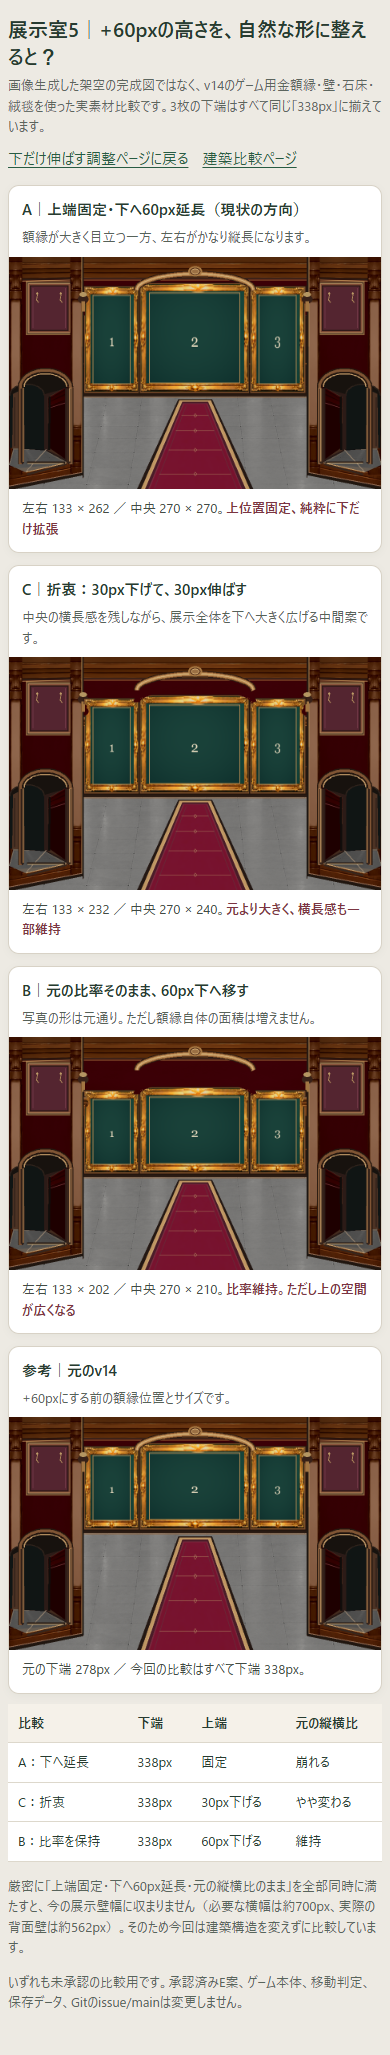
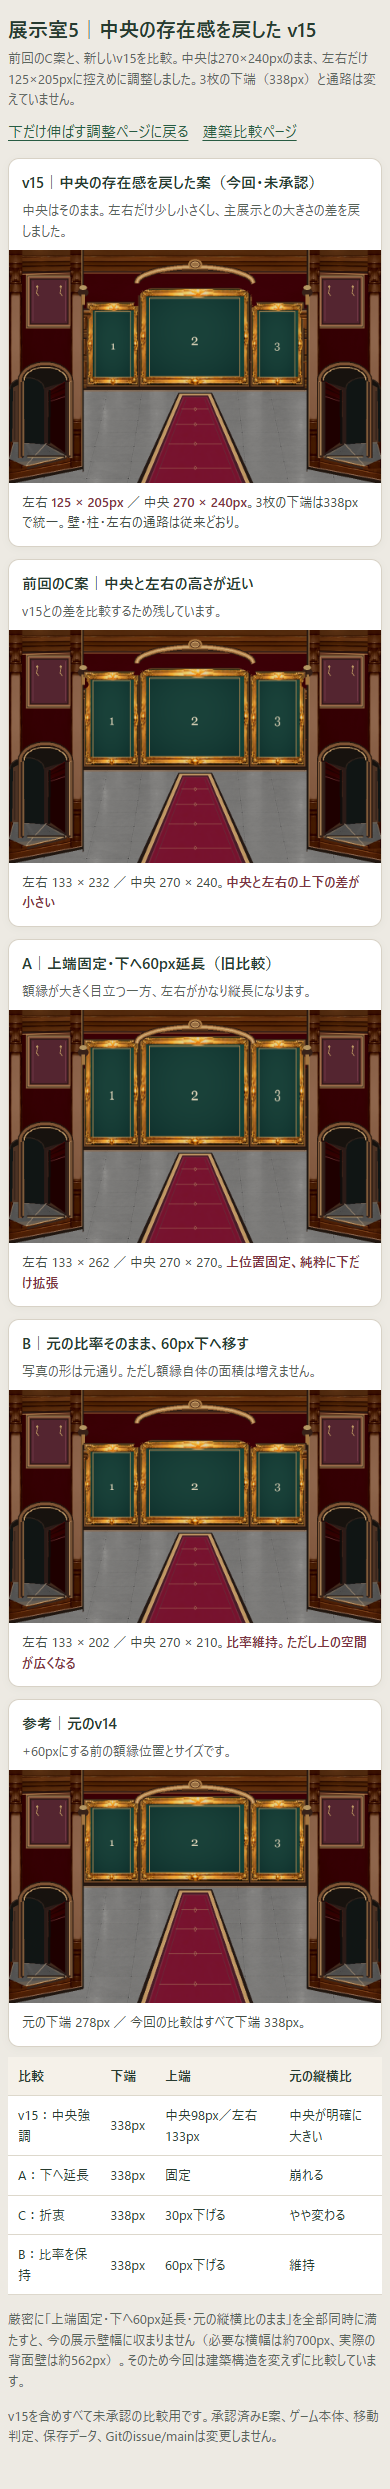
art(a18): restore central gallery5 prominence in v15 preview

diff --git a/architecture-review/entrance-gallery5-comparison/frame-balance/index.html b/architecture-review/entrance-gallery5-comparison/frame-balance/index.html
@@ -1,6 +1,6 @@
 <!doctype html>
 <html lang="ja"><head><meta charset="utf-8"><meta name="viewport" content="width=device-width,initial-scale=1">
-<title>展示室5｜+60px額縁の形・比較</title>
+<title>展示室5｜中央の存在感を戻す v15 比較</title>
 <style>
 :root{color-scheme:light}
 *{box-sizing:border-box}body{margin:0;background:#edeae3;color:#273b30;font:15px/1.58 system-ui,-apple-system,"Hiragino Kaku Gothic ProN","Yu Gothic",sans-serif}
@@ -25,8 +25,8 @@ th{background:#f5f1e9}
 </style></head>
 <body><main>
 <header>
-<h1>展示室5｜+60pxの高さを、自然な形に整えると？</h1>
-<p class="sub">画像生成した架空の完成図ではなく、v14のゲーム用金額縁・壁・石床・絨毯を使った実素材比較です。3枚の下端はすべて同じ「338px」に揃えています。</p>
+<h1>展示室5｜中央の存在感を戻した v15</h1>
+<p class="sub">前回のC案と、新しいv15を比較。中央は270×240pxのまま、左右だけ125×205pxに控えめに調整しました。3枚の下端（338px）と通路は変えていません。</p>
 <div class="links">
 <a href="../frame-adjuster/">下だけ伸ばす調整ページに戻る</a>
 <a href="../">建築比較ページ</a>
@@ -34,16 +34,22 @@ th{background:#f5f1e9}
 </header>
 <div class="grid">
 <article class="card">
-<h2>A｜上端固定・下へ60px延長（現状の方向）</h2>
+<h2>v15｜中央の存在感を戻した案（今回・未承認）</h2>
+<p class="small">中央はそのまま。左右だけ少し小さくし、主展示との大きさの差を戻しました。</p>
+<a class="image" href="d_central_emphasis_v15.png"><img src="d_central_emphasis_v15.png?v=15" alt="v15案：中央の額縁はそのまま、左右の額縁を少し小さくして主役が明確になった展示室5" width="930" height="582"></a>
+<p class="detail">左右 <strong>125 × 205px</strong> ／ 中央 <strong>270 × 240px</strong>。3枚の下端は338pxで統一。壁・柱・左右の通路は従来どおり。</p>
+</article>
+<article class="card">
+<h2>前回のC案｜中央と左右の高さが近い</h2>
+<p class="small">v15との差を比較するため残しています。</p>
+<a class="image" href="c_compromise.png"><img src="c_compromise.png" alt="前回のC案" width="930" height="582"></a>
+<p class="detail">左右 133 × 232 ／ 中央 270 × 240。<strong>中央と左右の上下の差が小さい</strong></p>
+</article>
+<article class="card">
+<h2>A｜上端固定・下へ60px延長（旧比較）</h2>
 <p class="small">額縁が大きく目立つ一方、左右がかなり縦長になります。</p>
 <a class="image" href="a_full_extension.png"><img src="a_full_extension.png" alt="A案：上端を変えずに60px延長した実素材比較" width="930" height="582"></a>
 <p class="detail">左右 133 × 262 ／ 中央 270 × 270。<strong>上位置固定、純粋に下だけ拡張</strong></p>
-</article>
-<article class="card">
-<h2>C｜折衷：30px下げて、30px伸ばす</h2>
-<p class="small">中央の横長感を残しながら、展示全体を下へ大きく広げる中間案です。</p>
-<a class="image" href="c_compromise.png"><img src="c_compromise.png" alt="C案：上端を30px下げ、額縁を30px伸ばした実素材比較" width="930" height="582"></a>
-<p class="detail">左右 133 × 232 ／ 中央 270 × 240。<strong>元より大きく、横長感も一部維持</strong></p>
 </article>
 <article class="card">
 <h2>B｜元の比率そのまま、60px下へ移す</h2>
@@ -58,12 +64,12 @@ th{background:#f5f1e9}
 <p class="detail">元の下端 278px ／ 今回の比較はすべて下端 338px。</p>
 </article>
 </div>
-<table aria-label="3案の比較">
+<table aria-label="新旧案の比較">
 <thead><tr><th>比較</th><th>下端</th><th>上端</th><th>元の縦横比</th></tr></thead>
-<tbody><tr><td>A：下へ延長</td><td>338px</td><td>固定</td><td>崩れる</td></tr>
+<tbody><tr><td>v15：中央強調</td><td>338px</td><td>中央98px／左右133px</td><td>中央が明確に大きい</td></tr><tr><td>A：下へ延長</td><td>338px</td><td>固定</td><td>崩れる</td></tr>
 <tr><td>C：折衷</td><td>338px</td><td>30px下げる</td><td>やや変わる</td></tr>
 <tr><td>B：比率を保持</td><td>338px</td><td>60px下げる</td><td>維持</td></tr></tbody>
 </table>
 <p class="notice">厳密に「上端固定・下へ60px延長・元の縦横比のまま」を全部同時に満たすと、今の展示壁幅に収まりません（必要な横幅は約700px、実際の背面壁は約562px）。そのため今回は建築構造を変えずに比較しています。</p>
-<p class="notice">いずれも未承認の比較用です。承認済みE案、ゲーム本体、移動判定、保存データ、Gitのissue/mainは変更しません。</p>
+<p class="notice">v15を含めすべて未承認の比較用です。承認済みE案、ゲーム本体、移動判定、保存データ、Gitのissue/mainは変更しません。</p>
 </main></body></html>

diff --git a/architecture-review/entrance-gallery5-comparison/index.html b/architecture-review/entrance-gallery5-comparison/index.html
@@ -1,6 +1,6 @@
 <!doctype html>
 <html lang="ja"><head><meta charset="utf-8"><meta name="viewport" content="width=device-width,initial-scale=1">
-<title>A18 展示室5 建築材質比較｜E案 vs v14</title>
+<title>A18 展示室5 建築材質比較｜E案 vs v15</title>
 <style>
 :root{color-scheme:light}*{box-sizing:border-box}body{margin:0;background:#eae8e1;color:#23372f;font:15px/1.6 system-ui,-apple-system,"Hiragino Kaku Gothic ProN","Yu Gothic",sans-serif}
 main{max-width:1450px;margin:auto;padding:12px clamp(10px,2.5vw,30px) 55px}h1{font-size:clamp(20px,3.5vw,29px);margin:.2em 0}.note{margin:0 0 16px;color:#555b54}.grid{display:grid;grid-template-columns:repeat(2,minmax(0,1fr));gap:16px}
@@ -11,16 +11,16 @@ h3{margin:25px 0 8px;font-size:19px}.em{color:#7d2c35;font-weight:700}
 @media(max-width:780px){.grid{grid-template-columns:1fr;gap:11px}main{padding:12px 9px 40px}}
 </style></head><body><main>
 <h1>展示室5｜E案・材質・左右通路の実素材比較</h1>
-<p class="note">承認済みE案は変更していません。右は<span class="em">v14（未承認）</span>です。入室した時点で飾った写真が目に入りやすいよう、3枚すべての額縁をさらに拡大しました。左右の通路や柱はv13から変更していません。</p>
-<p style="margin:8px 0"><a href="frame-balance/">＋60pxの額縁バランスを3案で比較する</a></p>
+<p class="note">承認済みE案は変更していません。右は<span class="em">v15（未承認）</span>です。中央の作品は大きさを維持し、左右だけ少し小さくして主展示とのメリハリを戻しました。左右の通路や柱は変更していません。</p>
+<p style="margin:8px 0"><a href="frame-balance/"><strong>v15：中央の存在感を戻した新案と前回C案を比較する</strong></a></p>
 <p style="margin:12px 0 18px"><a href="frame-adjuster/" style="display:inline-block;border-radius:9px;background:#27513d;color:#fff;padding:11px 16px;text-decoration:none;font-weight:700">展示室5｜3枚の額縁サイズを動かして確認する</a></p>
 <div class="grid">
 <article><h2>承認済みE案（正本／不変）</h2><figure><img src="gallery5-approved-E.png?v=1" alt="展示室5承認済みE案" width="930" height="582"></figure><p>構造・3額縁・宮殿風の配色の基準。</p></article>
-<article><h2>v14｜入室時の見栄えを重視して3額縁を拡大（未承認）</h2><figure><img src="gallery5-v14.png?v=20261029-14" alt="額縁をさらに拡大した展示室5 v14" width="930" height="582"></figure><p>左右は118×162→133×202、中央は262×172→270×210（v13比）。左右・中央の下端を揃え、元のアーチ・左右通路は保持。作品の大きさが伝わりやすい画面に調整しました。</p></article>
+<article><h2>v15｜中央の存在感を戻した新案（未承認）</h2><figure><img src="gallery5-v15.png?v=20261029-15" alt="中央の額縁の存在感を高めた展示室5の実素材v15" width="930" height="582"></figure><p>中央は270×240pxのまま、左右だけ125×205pxに抑えています。3額縁の下端は338pxで揃え、左右の通路・柱・壁の材質は維持しています。</p></article>
 </div>
 <h3>額縁拡張前後・実ゲーム素材との比較</h3>
 <div class="grid">
-<article><h2>v13｜拡大前（未承認）</h2><figure><img src="gallery5-v13.png?v=20261029-13" alt="拡大前の展示室5 v13" width="930" height="582"></figure><p>前回の展示室5素材。v14は入口から視界に入る作品の存在感を増すため、横幅と高さの両方を拡大。</p></article>
+<article><h2>v14｜以前の額縁サイズ（未承認）</h2><figure><img src="gallery5-v14.png?v=20261029-14" alt="展示室5 v14" width="930" height="582"></figure><p>拡大調整前の背景。v15との高さや中央・左右のバランスを比較できます。</p></article>
 <article><h2>エントランス Lv.1｜実ゲーム画面</h2><figure><img src="entrance-lv1.png?v=1" alt="エントランスLv1" width="930" height="582"></figure><p>木材と石床の材質参考。</p></article>
 <article><h2>エントランス Lv.6｜承認済み</h2><figure><img src="entrance-lv6.png?v=1" alt="エントランスLv6" width="930" height="582"></figure><p>完成した額縁と絨毯の材質参考。</p></article>
 </div>

diff --git a/qa/build_gallery5_v15_central_emphasis.py b/qa/build_gallery5_v15_central_emphasis.py
@@ -1,0 +1,70 @@
+"""Gallery5 v15: restore visual hierarchy by slightly reducing ONLY side frames.
+Based on the previously reviewed C (+60 lower edge) variant. Central stays 270x240.
+Uses extracted real v14 frame sprites; E and gameplay remain untouched.
+"""
+from pathlib import Path
+from PIL import Image,ImageChops
+import json
+R=Path(r"C:\Users\User\source\repos\a18-gallery5-material-review")
+AS=R/"architecture-review/entrance-gallery5-comparison/frame-adjuster"
+BAL=R/"architecture-review/entrance-gallery5-comparison/frame-balance"
+R15=R/"rooms/gallery5"
+ARCH=R/"architecture-review/gallery5"
+src={n:Image.open(AS/f"frame_{n}.png").convert("RGBA") for n in ("left","center","right")}
+base=Image.open(AS/"gallery5_unframed.png").convert("RGB")
+C=Image.open(BAL/"c_compromise.png").convert("RGB")
+W,H=base.size
+assert (W,H)==(930,582)
+def backwall(extra=60):
+    output=base.copy()
+    l,r=184,746;ww=r-l
+    output.paste(base.crop((l,224,r,286)).resize((ww,extra+6),Image.Resampling.BICUBIC),(l,280))
+    output.paste(base.crop((l,292,r,582)).resize((ww,290-extra),Image.Resampling.BICUBIC),(l,292+extra))
+    output.paste(base.crop((l,286,r,292)),(l,286+extra))
+    return output
+def resize_real_frame(sprite,targetW,extraH):
+    w,h=sprite.size
+    cap_top,cap_bot=43,39
+    mid=sprite.crop((0,cap_top,w,h-cap_bot)).resize((w,h-cap_top-cap_bot+extraH),Image.Resampling.BICUBIC)
+    result=Image.new("RGBA",(w,h+extraH))
+    result.alpha_composite(sprite.crop((0,0,w,cap_top)),(0,0))
+    result.alpha_composite(mid,(0,cap_top))
+    result.alpha_composite(sprite.crop((0,h-cap_bot,w,h)),(0,h-cap_bot+extraH))
+    # Horizontal change is modest (~6%) and applies to each real frame sprite.
+    actualW=targetW+14
+    return result.resize((actualW,h+extraH),Image.Resampling.LANCZOS)
+# New +60 bottom remains 338. Side widths/heights reduce, central C untouched.
+specs={
+ "left":{"x":197,"y":133,"w":125,"h":205},
+ "center":{"x":329,"y":98,"w":270,"h":240},
+ "right":{"x":608,"y":133,"w":125,"h":205}
+}
+original={"left":(133,202),"center":(270,210),"right":(133,202)}
+out=backwall()
+for name in ("left","center","right"):
+    rect=specs[name];oldW,oldH=original[name]
+    frame=resize_real_frame(src[name],rect["w"],rect["h"]-oldH)
+    out.paste(frame,(rect["x"]-6,rect["y"]-5),frame)
+assert all(x["y"]+x["h"]==338 for x in specs.values())
+assert specs["left"]["x"]+specs["left"]["w"]<specs["center"]["x"]
+assert specs["center"]["x"]+specs["center"]["w"]<specs["right"]["x"]
+assert specs["right"]["x"]+specs["right"]["w"]<746
+# Pixel-identical at the architectural side planes.
+for box in [(0,0,184,H),(746,0,W,H)]:
+    assert ImageChops.difference(C.crop(box),out.crop(box)).getbbox() is None
+p=BAL/"d_central_emphasis_v15.png"
+out.save(p,optimize=True)
+( R/"architecture-review/entrance-gallery5-comparison/gallery5-v15.png" ).write_bytes(p.read_bytes())
+q=ARCH/"gallery5_v15_central_emphasis_REVIEW.png";out.save(q,optimize=True)
+r=R15/"gallery5_palace_E_material_v15_REVIEW.png";out.save(r,optimize=True)
+metadata={
+ "schema":"a18-gallery5-frame-balance/v15",
+ "base":"C (+60 bottom); same architecture",
+ "status":"UNAPPROVED",
+ "canvas":{"width":930,"height":582},
+ "rects":{n:{**v,"bottom":v["y"]+v["h"]} for n,v in specs.items()},
+ "sideCorridorsChanged":False,
+ "approvedEChanged":False}
+(BAL/"v15_layout.json").write_text(json.dumps(metadata,ensure_ascii=False,indent=2),encoding="utf-8")
+print("saved",p,p.stat().st_size,"C diff",ImageChops.difference(out,C).getbbox())
+print(json.dumps(specs,ensure_ascii=False))

diff --git a/qa/check_gallery5_frame_balance.py b/qa/check_gallery5_frame_balance.py
@@ -14,6 +14,10 @@ disk=subprocess.check_output(["git","hash-object",str(e)],cwd=R,text=True).strip
 assert head==disk,(head,disk)
 data=json.loads((G/"variants.json").read_text(encoding="utf-8"))
 assert len(data)==3
+v15=json.loads((G/'v15_layout.json').read_text(encoding='utf-8'))
+assert v15['status']=='UNAPPROVED'
+assert [(v15['rects'][n]['w'],v15['rects'][n]['h']) for n in ('left','center','right')]==[(125,205),(270,240),(125,205)]
+assert {v['bottom'] for v in v15['rects'].values()}=={338}
 side_reference=Image.open(BASE/"frame-adjuster/gallery5_unframed.png").convert("RGB")
 for rec in data:
     image=Image.open(G/rec["image"]).convert("RGB")
@@ -24,7 +28,15 @@ for rec in data:
     for box in ((0,0,184,582),(746,0,930,582)):
         assert ImageChops.difference(image.crop(box),side_reference.crop(box)).getbbox() is None,(rec["id"],box)
 assert [data[0]["rects"]["left"]["h"],data[1]["rects"]["left"]["h"],data[2]["rects"]["left"]["h"]]==[262,202,232]
-print("ASSET geometry and preserved side architecture PASS")
+v15_img=Image.open(G/'d_central_emphasis_v15.png').convert('RGB')
+assert v15_img.size==(930,582)
+assert (R/'rooms/gallery5/gallery5_palace_E_material_v15_REVIEW.png').read_bytes()==(G/'d_central_emphasis_v15.png').read_bytes()
+assert (R/'architecture-review/gallery5/gallery5_v15_central_emphasis_REVIEW.png').read_bytes()==(G/'d_central_emphasis_v15.png').read_bytes()
+for box in ((0,0,184,582),(746,0,930,582)):
+    assert ImageChops.difference(v15_img.crop(box),side_reference.crop(box)).getbbox() is None
+c_img=Image.open(G/'c_compromise.png').convert('RGB')
+assert ImageChops.difference(v15_img,c_img).getbbox() is not None
+print('ASSET geometry, increased central-side hierarchy, and protected side architecture PASS')
 out=R/"qa/gallery5-frame-balance-review";out.mkdir(exist_ok=True)
 server=ThreadingHTTPServer(("127.0.0.1",0),partial(SimpleHTTPRequestHandler,directory=str(R)))
 threading.Thread(target=server.serve_forever,daemon=True).start()
@@ -37,12 +49,19 @@ try:
         res=page.goto(f"http://127.0.0.1:{server.server_port}/architecture-review/entrance-gallery5-comparison/frame-balance/",wait_until="load")
         assert res.status==200
         imgs=page.locator(".card img")
-        assert imgs.count()==4
+        assert imgs.count()==5
         assert imgs.evaluate_all("(els)=>els.every(el=>el.complete && el.naturalWidth===930 && el.naturalHeight===582)")
         assert page.locator("body").evaluate("(e)=>e.scrollWidth<=innerWidth+2")
         assert not errors,errors
         page.screenshot(path=str(out/f"balance_{w}.png"),full_page=True)
-        print("BROWSER",w,"PASS, four art assets loaded")
+        main=page.goto(f"http://127.0.0.1:{server.server_port}/architecture-review/entrance-gallery5-comparison/",wait_until="load")
+        assert main.status==200
+        assert "v15" in page.title()
+        assert page.locator('img[src^="gallery5-v15.png"]').count()==1
+        assert page.locator('img[src^="gallery5-v15.png"]').evaluate("(el)=>el.complete && el.naturalWidth===930")
+        assert page.locator("body").evaluate("(el)=>el.scrollWidth<=innerWidth+2")
+        assert not errors,errors
+        print('BROWSER',w,'PASS, balance images and main comparison v15')
         page.close()
     browser.close()
 finally:
